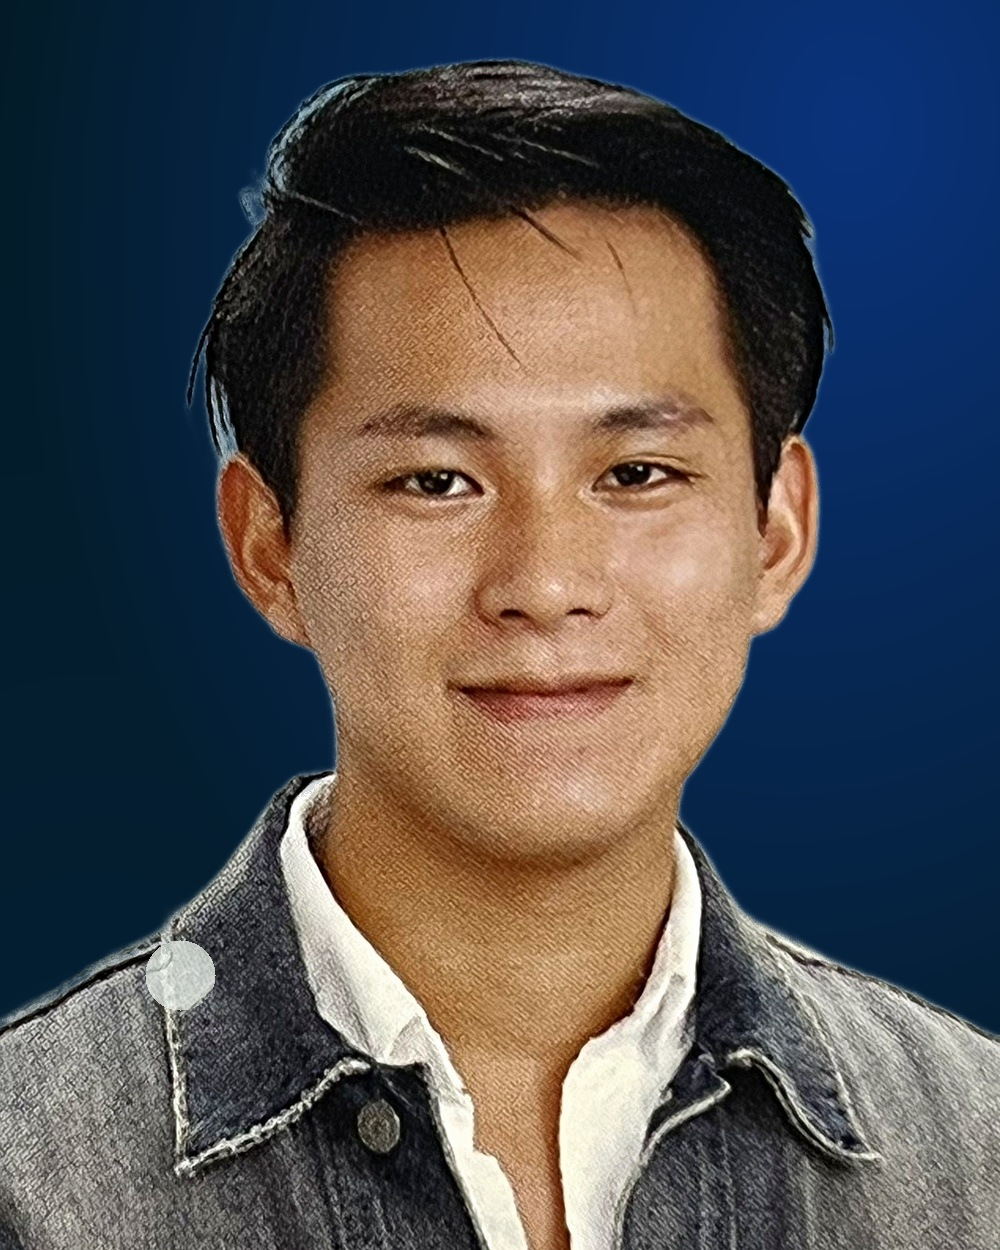
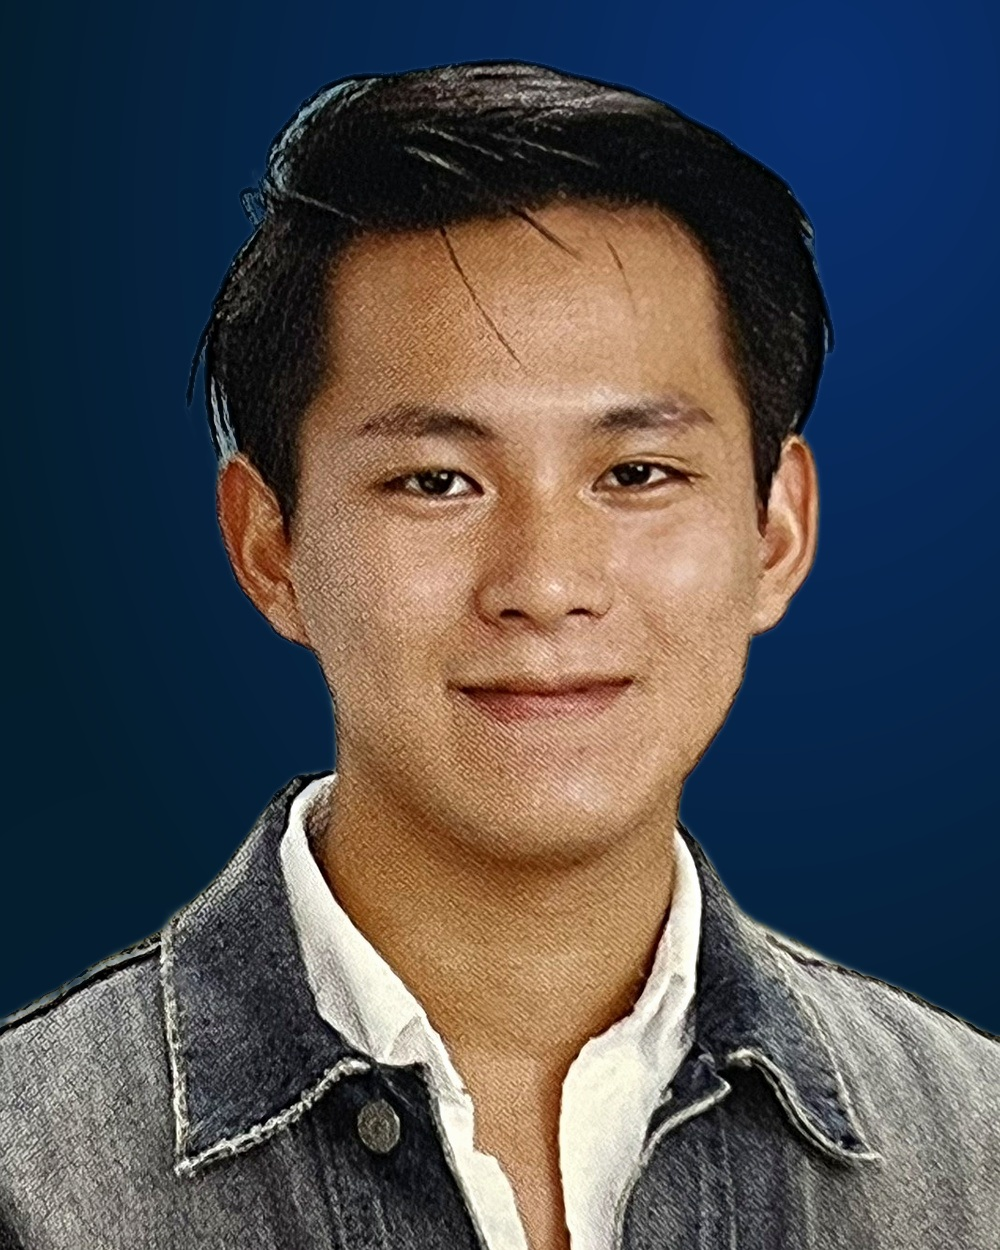
feat: テクノロジーセクション刷新 + プロフィール写真改善
- テクノロジー: 12サービスのアイコン付きマーキー（無限横スクロール）
  Claude, GPT-4o, Gemini, Perplexity, LINE, Google Cloud,
  Whisper, Stable Diffusion, LangChain, Astro, Vercel, n8n
- ホバーでネオンアクセント、フェードマスクで両端をなめらかに
- プロフィール写真: 白ハロー除去、埃の白円アーティファクト修正、
  エッジのカラーデコンタミネーション処理

diff --git a/src/styles/global.css b/src/styles/global.css
@@ -509,3 +509,81 @@ input:focus, textarea:focus, select:focus {
   width: auto;
 }
 .client-logo:hover { opacity: 0.8; }
+
+/* ===== Technology Marquee ===== */
+.tech-marquee-wrapper {
+  width: 100%;
+  overflow: hidden;
+  mask-image: linear-gradient(to right, transparent 0%, black 8%, black 92%, transparent 100%);
+  -webkit-mask-image: linear-gradient(to right, transparent 0%, black 8%, black 92%, transparent 100%);
+  padding: 0 0 64px;
+}
+.tech-marquee-track {
+  display: flex;
+  gap: 12px;
+  width: max-content;
+  animation: marquee-scroll 40s linear infinite;
+}
+.tech-marquee-track:hover {
+  animation-play-state: paused;
+}
+.tech-item {
+  display: flex;
+  align-items: center;
+  gap: 12px;
+  padding: 14px 24px;
+  border: 1px solid var(--color-border-card);
+  border-radius: 10px;
+  background: rgba(255,255,255,0.02);
+  backdrop-filter: blur(4px);
+  white-space: nowrap;
+  transition: border-color 0.3s, background 0.3s;
+  flex-shrink: 0;
+}
+.tech-item:hover {
+  border-color: rgba(216,255,0,0.25);
+  background: rgba(216,255,0,0.04);
+}
+.tech-icon {
+  color: var(--color-ink);
+  opacity: 0.7;
+  flex-shrink: 0;
+  display: flex;
+  align-items: center;
+}
+.tech-item:hover .tech-icon {
+  opacity: 1;
+  color: var(--color-neon);
+}
+.tech-name {
+  font-family: 'Inter', sans-serif;
+  font-weight: 700;
+  font-size: 15px;
+  color: var(--color-ink);
+  letter-spacing: -0.02em;
+  line-height: 1.2;
+}
+.tech-sub {
+  font-family: 'Inter', sans-serif;
+  font-weight: 400;
+  font-size: 11px;
+  color: var(--color-ink-dim);
+  letter-spacing: 0.02em;
+}
+
+@keyframes marquee-scroll {
+  0% { transform: translateX(0); }
+  100% { transform: translateX(-50%); }
+}
+
+[data-theme="light"] .tech-item {
+  background: rgba(0,0,0,0.02);
+  border-color: rgba(0,0,0,0.08);
+}
+[data-theme="light"] .tech-item:hover {
+  border-color: rgba(20,86,251,0.3);
+  background: rgba(20,86,251,0.04);
+}
+[data-theme="light"] .tech-item:hover .tech-icon {
+  color: var(--color-blue);
+}